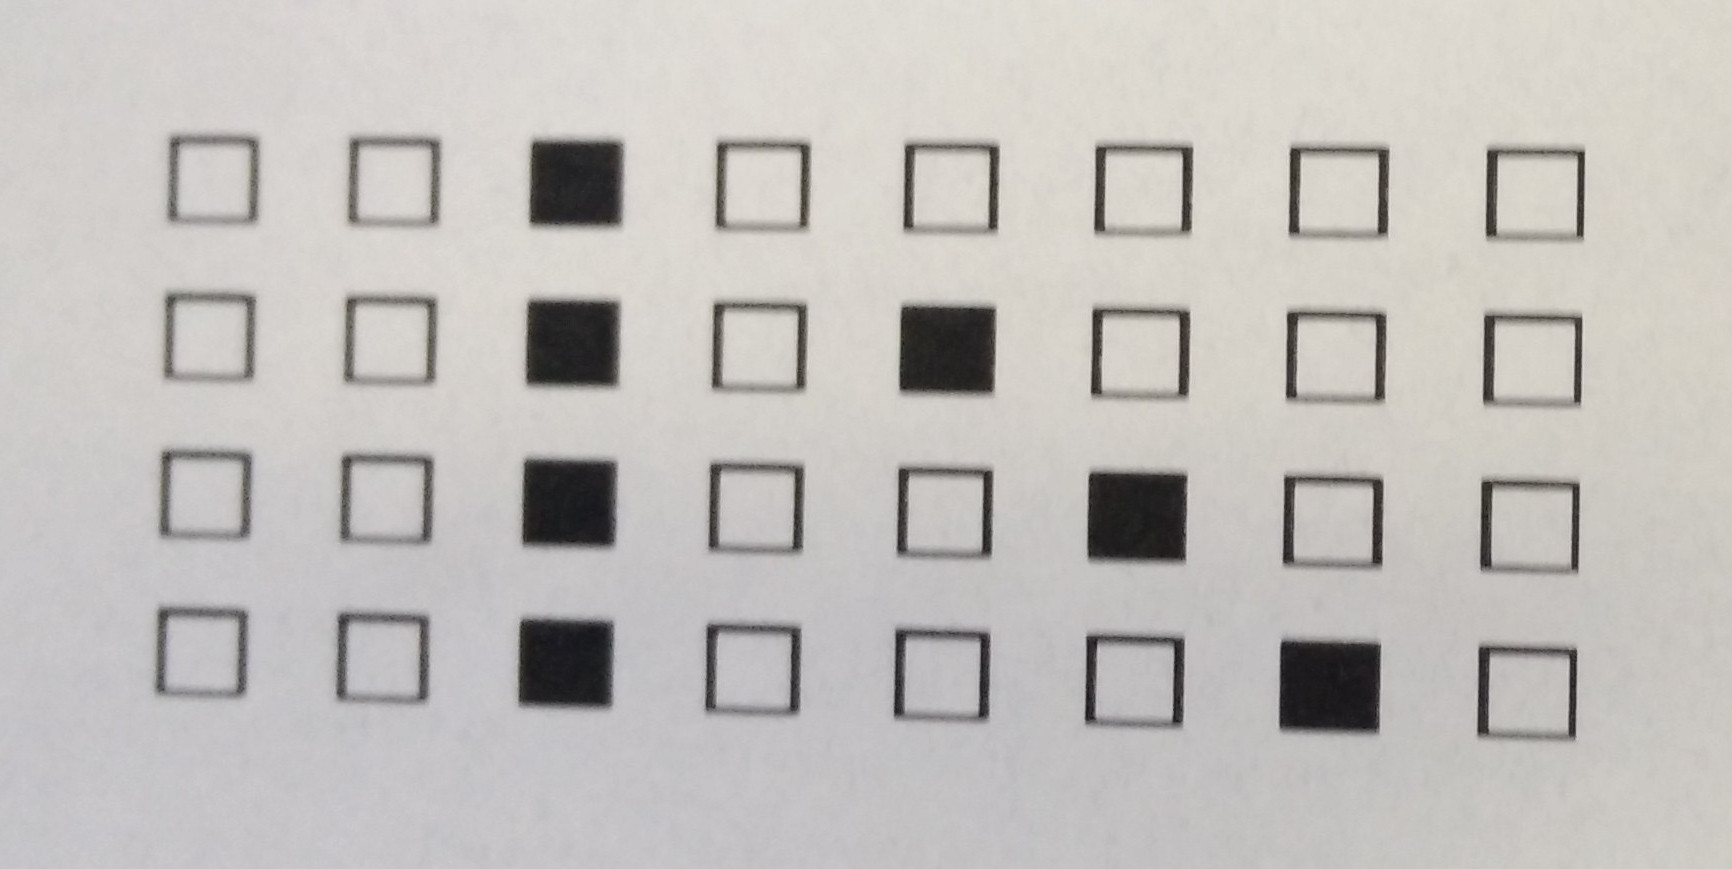
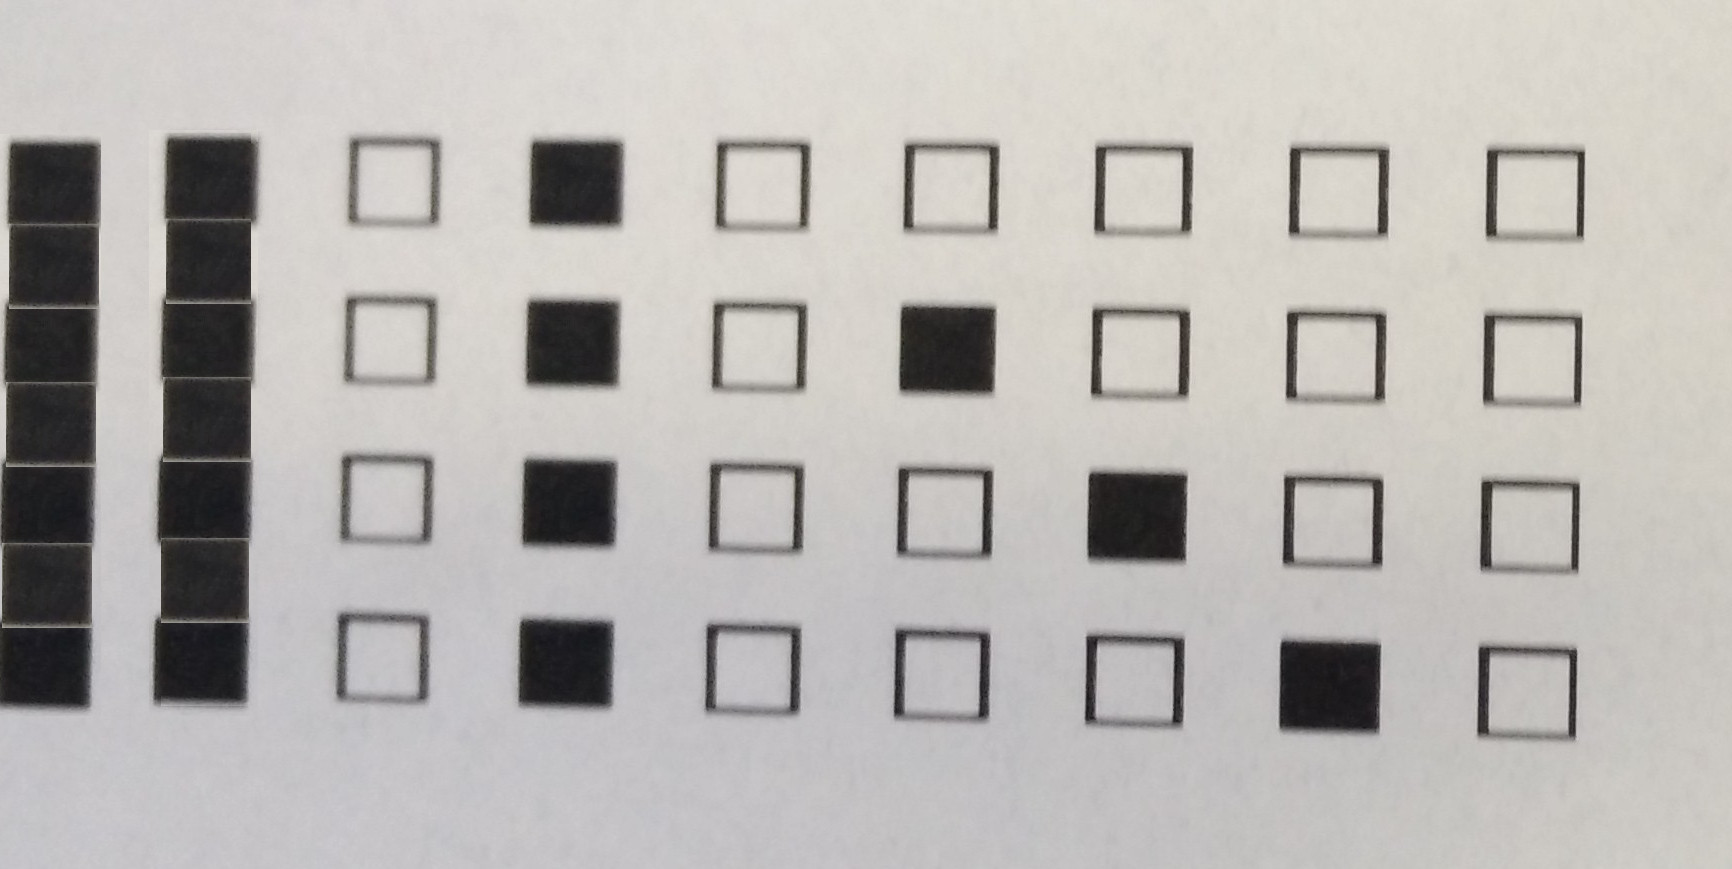
Start work on scan function. ATM it expects the first two columns to be solid black. It finds the first two columns of solid black by comparing averages and then can subtract the pixel difference in order to find the distance between columns. Because we can use this to find the distance between colu

Changed region(s): [[0.0, 0.1554, 0.1559, 0.8389]]

diff --git a/main.js b/main.js
@@ -8,24 +8,148 @@ const OFFSETHEIGHT = 25
 var getPixels = require("get-pixels")
 
 getPixels("images/encoded.jpg", function(err, pixels) {
+	
 	if(err) {
-		console.log("Bad image path")
-		return
-		}
-	console.log("pixel is", (withinLimit(pixels.get(570, 182, 0)) ? "black" : "white"))
-	scan(pixels)
-})
-
-function withinLimit(colourcode) {
-	if(colourcode > 128) {
-		return false
-	} else {
-		return true
+		console.log("Bad image path");
+		return;
 	}
+	
+	scan(pixels);
+
+});
+
+function getState(colourcode) {
+
+	if(colourcode > 128) {
+		return "white"
+	} else {
+		return "black"
+	}
+
 }
+
+function getPixel(data, x, y) {
+	return ~~((data.get(x, y, 0) + data.get(x, y, 1) + data.get(x, y, 2)) / 3);
+}
+
+function getPixelFromStrip(data, i) {
+	return ~~((data.get(i, 0) + data.get(i, 1) + data.get(i, 2)) / 3);
+}
+
+var xTickInc = 10;
+var yTickInc = 32;
 
 function scan(pixels) {
 	var imageWidth = pixels.shape[0]
 	var imageHeight = pixels.shape[1]
-	console.log(imageWidth, imageHeight)
+
+	// var stepsX = ~~(imageWidth / SPACINGWIDTH);
+	// var stepsY = ~~(imageHeight / SPACINGHEIGHT);
+
+	// for(var x = 1; x < stepsX; x += 1) {
+	// 	for(var y = 1; y < stepsY; y += 1) {	
+	// 		console.log(getPixel(pixels, x * SPACINGWIDTH + OFFSETWIDTH, y * SPACINGHEIGHT + OFFSETHEIGHT));
+	// 	}
+	// 	console.log("BREAK");
+	// }
+	
+	var countX = 50;
+	var countY = 5;
+
+	var stepsX = ~~(imageWidth / countX);
+	var stepsY = ~~(imageHeight / countY);
+
+	//Take "strips" at regular intervals and average the colours.
+	//Because we know that the first two strips will both be solid black we can then measure the distance between average peaks.
+	var all_active_peak = 140;
+					//x, y, val
+	var first_peak = null;
+	var second_peak = null;
+
+	for(var i = 0; i < stepsX; i++) {
+		var strip = pixels.pick(i * countX, null, null);
+		var sum = 0;
+		var firstHit = 0;
+		for(var j = 0; j < stepsY; j++) {
+			var curCol = getPixelFromStrip(strip, j * countY);
+
+			//Get the "y" index of the first black hit on the y axis
+			if(getState(curCol) == "black" && firstHit == 0) {
+				firstHit = j * countY;
+			}
+
+			//add to the average sum
+			sum += curCol;
+		}
+
+		//calculate the pixel colour average.
+		var avg = ~~(sum / stepsY);
+		
+		//If the average for the row is one which indicates the whole row is made up of black squares
+		if(avg < all_active_peak) {
+
+			//If the position of the first all black row isn't known
+			if(first_peak === null) {
+				first_peak = [i * countX, firstHit, avg];
+			} else {
+				//Check in the middle of the two for white (if white then different cols)
+				var xDiff = ~~(((i * countX) - first_peak[0]) * 0.5);
+				var strip_sec = pixels.pick(first_peak[0] + xDiff, null, null);
+				var check = getState(getPixelFromStrip(strip_sec, first_peak[1]));
+
+				if(check == "white") {
+					second_peak = [i * countX, first_peak[1], avg];
+					
+					//Terminate the whole loop when second match found
+					j = stepsY + 1;
+					i = stepsX + 1;
+				} else {
+					continue;
+				}
+
+
+			}
+		}
+	}
+
+
+
+
+	console.log(first_peak, second_peak);
+
+
+
+
+
+
+	// var labelBeginCoords = [0,0];
+	// var labelEndCoords = [0,0];
+
+	// //Find the start of the label
+	// var currentColour = getPixel(pixels, 0, 0);
+	// var tickX = 0;
+	// var tickY = 0;
+
+	// while(getState(currentColour) == "black") {
+	// 	tickY += yTickInc;
+	// 	currentColour = getPixel(pixels, tickX, tickY);
+
+	// 	if(tickY > imageHeight) {
+	// 		tickX += xTickInc;
+	// 		tickY = 0;
+	// 	}
+	// }
+
+	// labelBeginCoords = [tickX, tickY];
+
+
+	// while(getState(currentColour) == "white") {
+	// 	tickX += xTickInc;
+	// 	currentColour = getPixel(pixels, tickX, tickY);
+	// }
+
+	// labelEndCoords = [tickX, tickY];
+
+	// console.log("Label found at: " + labelBeginCoords);
+	// console.log("End of label found at: " + labelEndCoords);
 }
